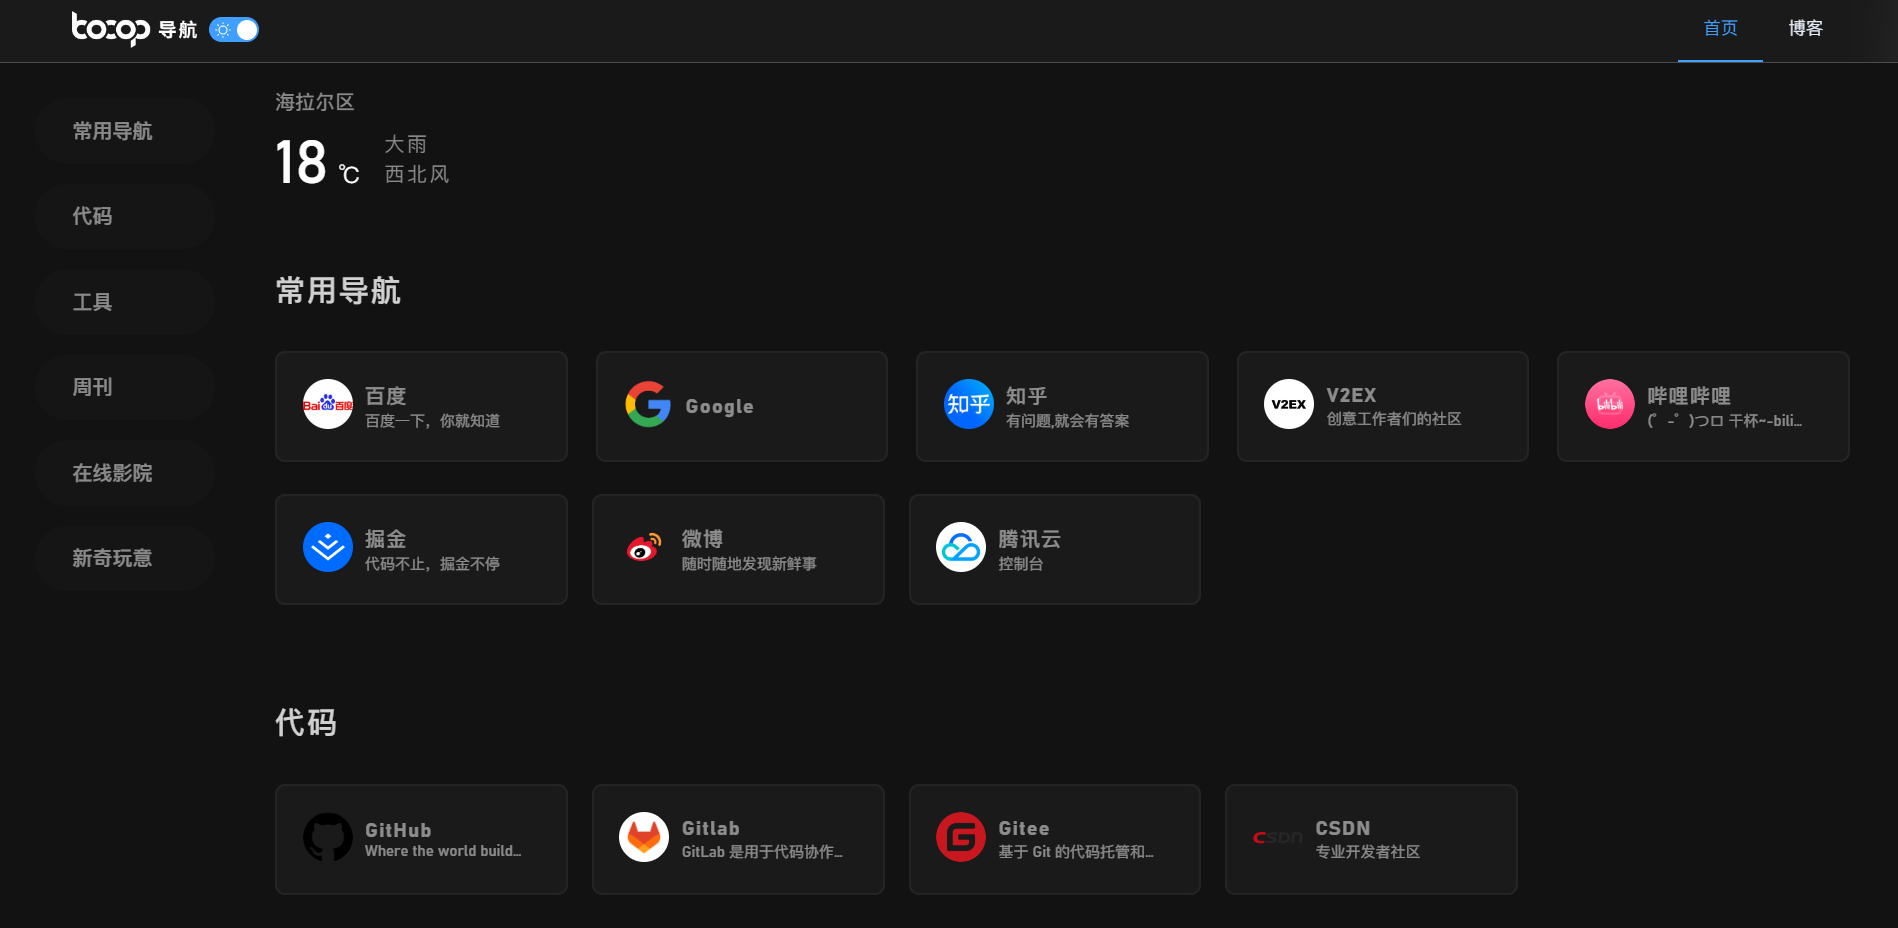
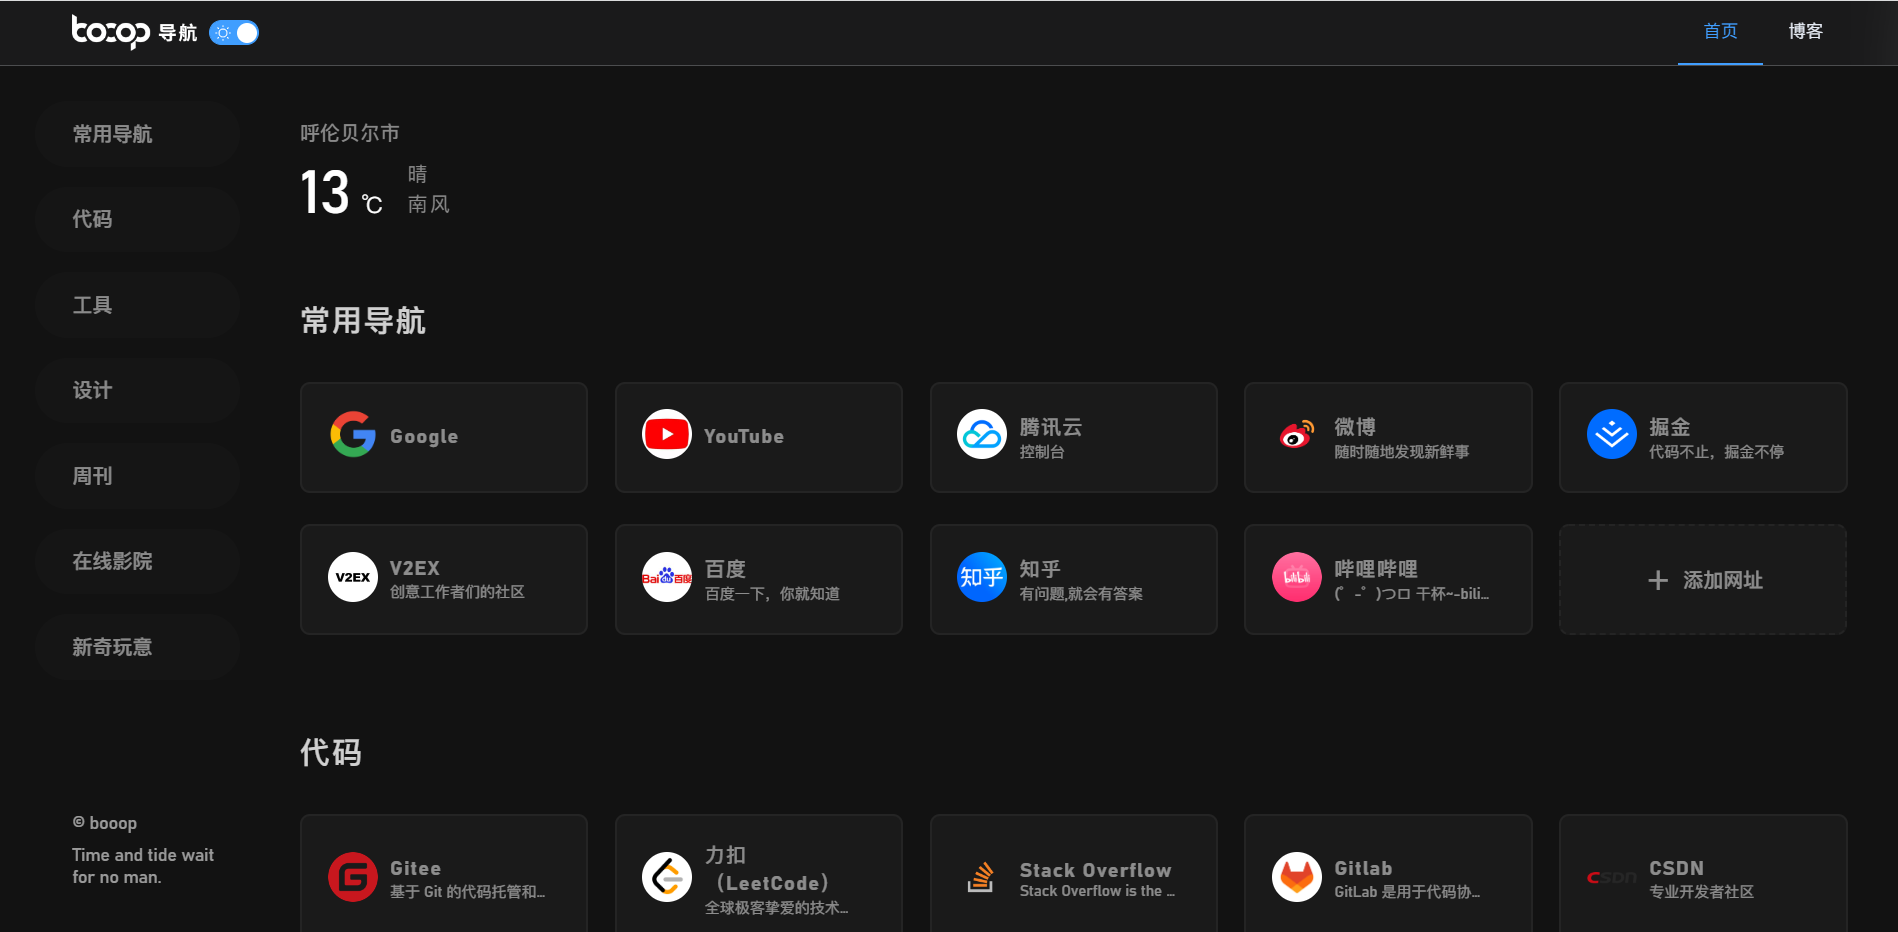
变更 README.js 替换 README.js 插图 增加显示点击量、快捷编辑功能按钮

diff --git a/src/components/HomeCard.vue b/src/components/HomeCard.vue
@@ -12,15 +12,15 @@
           <!--卡片主窗体-->
             <div class="cardGroup">
                 <!--单个卡片通过循环展示-->
-                <div class="cardBg" v-for="card in cardGroup"
+                <div class="cardBg" v-for="(card,index) in cardGroup"
                      :key="card.id"
-                     @click="urlHrefHandler(card.url_link)"
                      :draggable="true"
                      @dragstart="dragstart(card)"
                      @dragenter="dragenter(card,$event)"
                      @dragend="dragend(card,$event)"
-                     @dragover="dragover($event)">
-                    <div class="cardBgHref">
+                     @dragover="dragover($event)"
+                     @mousemove="showEdit">
+                    <div class="cardBgHref" @click="urlHrefHandler(card.url_link)">
                         <div class="cardImages">
                             <el-avatar style="background: #FFFFFF" shape="circle"
                                        :src="card.url_pic ? card.url_pic : cardDefaultLogo"/>
@@ -31,9 +31,14 @@
                             <div class="cardSubtitle" :title="card.url_remark">{{ card.url_remark }}</div>
                         </div>
                     </div>
+                  <div class="editBtn">
+                    <div class="editItemDisplay">👀</div>
+                    <div class="editItemBtn" @click="editCard(index)">Edit</div>
+                  </div>
                 </div>
               <!--针对每个专区添加一个快捷增加卡片功能-->
-              <HomeCardAdd :sectionIndex="sectionIndex.trueIndex"/>
+              <HomeCardAdd ref="cardAddRef" :sectionIndex="sectionIndex.trueIndex"
+                           :editCardInfo="editCardInfo"/>
             </div>
         </div>
     </span>
@@ -51,6 +56,7 @@ import HomeCardAdd from "./HomeCardAdd.vue";
 
 const card = reactive({
   isLoading: true,
+  isEdit: false,
   // 每个分区内的具体详细信息
   cardInfo: '',
   // 每个分区的大标题信息
@@ -59,6 +65,13 @@ const card = reactive({
 
 function urlHrefHandler(url) {
   window.open(url, '_blank')
+}
+
+let editCardInfo = ref(null)
+
+function editCard(index) {
+  // console.log(card.cardInfo[sectionIndex.sortIndex][index])
+  editCardInfo.value = card.cardInfo[sectionIndex.sortIndex][index]
 }
 
 //将card中数组通过section_id进行分类
@@ -188,21 +201,17 @@ for (var i = oDiv.length - 1; i >= 0; i--) {
     display: flex;
     justify-content: space-between;
     flex-wrap: wrap;
-
-    @media only screen and (min-width: 768px) {
-      & div:last-child {
-        margin-right: auto;
-      }
-    }
   }
 
   .cardBg {
-    min-height: 80px;
+    height: 100%;
     border-radius: 8px;
     background: #FFF;
     overflow: hidden;
     cursor: pointer;
     border: rgba(50, 50, 50, .1) 2px solid;
+    display: flex;
+    flex-direction: column;
 
     @media only screen and (min-width: 768px) {
       width: 30%;
@@ -231,10 +240,9 @@ for (var i = oDiv.length - 1; i >= 0; i--) {
 
     .cardBgHref {
       color: rgba(0, 0, 0, .6);
-      height: 100%;
       display: flex;
       align-items: center;
-      padding: 20px;
+      padding: 10px 20px;
       box-sizing: border-box;
 
       &:hover {
@@ -293,6 +301,33 @@ for (var i = oDiv.length - 1; i >= 0; i--) {
       text-overflow: ellipsis;
       @media only screen and (max-width: 768px) {
         text-align: center;
+      }
+    }
+
+    .editBtn {
+      color: rgba(0, 0, 0, .5);
+      font-size: 12px;
+      padding: 6px 20px;
+      //border-top: rgba(50, 50, 50, .1) 1px solid;
+      display: flex;
+      align-items: center;
+      justify-content: space-between;
+      border-top: 1px solid;
+      border-image: linear-gradient(90deg, rgba(50, 50, 50, .1) 0%, rgba(255, 255, 255, 0) 100%) 2 2 2 2;
+      cursor: auto;
+
+      .editItemDisplay {
+        padding: 0 10px;
+        box-sizing: border-box;
+      }
+
+      .editItemBtn {
+        @extend .editItemDisplay;
+        cursor: pointer;
+
+        &:hover {
+          color: rgba(0, 0, 0, 1);
+        }
       }
     }
   }

diff --git a/src/components/HomeCardAdd.vue b/src/components/HomeCardAdd.vue
@@ -77,7 +77,7 @@ function onSubmit() {
           ...formLabelAlign
         }
       }).then((response) => {
-        console.log(response.data)
+        // console.log(response.data)
         if (response.data.status === 0) {
           open.value = false
           window.location.reload()
@@ -92,13 +92,14 @@ function onSubmit() {
 // 表单标题位置（左、右、上）
 const labelPosition = ref('right')
 
-let props = defineProps(['sectionIndex'])
-watch(() => props.sectionIndex, (newValue) => {
+let props = defineProps(['sectionIndex', 'editCardInfo'])
+watch([() => props.sectionIndex, () => props.editCardInfo], (newValue) => {
+  // console.log(newValue)
   formLabelAlign.section_id = newValue
 })
 
 // 表单提交数据
-const formLabelAlign = reactive({
+let formLabelAlign = reactive({
   section_id: '',
   url_title: '',
   url_remark: '',

diff --git a/README.md b/README.md
@@ -12,11 +12,12 @@
 
 ## 实现功能
 
--[x] 通过数据库读取数据
--[x] 使用通信将数据发送给`HomeAside`
--[x] 支持栏目内进行排序
--[ ] 支持将排序后的信息更新至服务器
-
+- [x] 通过数据库读取数据  
+- [x] 通过第三方 API 显示当前所在地天气  
+- [x] 通过第三方通信工具实现兄弟间数据传递  
+- [x] 支持快捷添加专区内卡片  
+- [x] 支持栏目内进行排序  
+- [ ] 支持将排序后的信息更新至服务器  
 
 ## 截图
 
